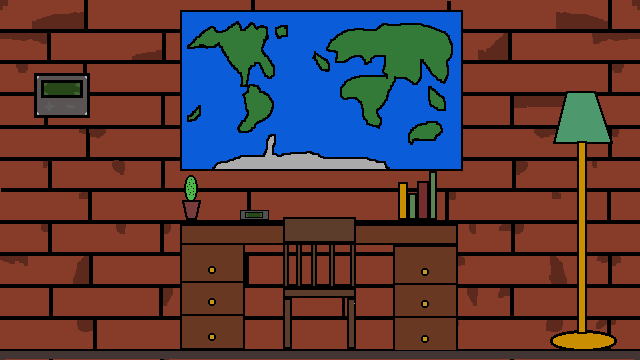
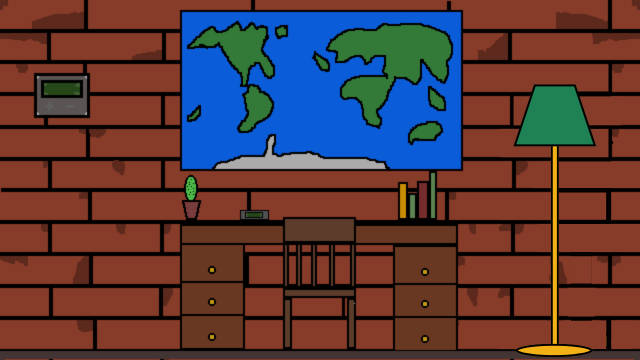
lightbulb logic works! :boom: also added a bunch more assets

diff --git a/client/src/components/GameScreen/Screen.tsx b/client/src/components/GameScreen/Screen.tsx
@@ -123,6 +123,17 @@ export default function GameScreen(props: {
     setScreenIndex(6);
   };
 
+  const handleInstallLight = () => {
+    if (props.selectedItem === "lightbulb") {
+      props.toggleWorldFlag("lightbulbInstalled");
+      props.removeItem("lightbulb");
+    }
+  };
+
+  const handleLightSwitch = () => {
+    props.toggleWorldFlag("lampOn");
+  };
+
   const handleSheetMusicClick = () => {
     setPreviousScreenIndex(screenIndex);
     setScreenIndex(7);
@@ -335,9 +346,17 @@ export default function GameScreen(props: {
           )}
         </div>
       );
-    case 3: // desk overwold screen
+    case 3: // desk screen
+      let currentBg = "screen-four-bg-one";
+      if (checkWorldFlag("lightbulbInstalled")) {
+        if (checkWorldFlag("lampOn")) {
+          currentBg = "screen-four-bg-light-on";
+        } else {
+          currentBg = "screen-four-bg-light-off";
+        }
+      }
       return (
-        <div className={`background-container screen-four-bg-one`}>
+        <div className={`background-container ${currentBg}`}>
           <button className="goRight" onClick={() => handleGoRight()}>
             <img src={arrow} className="arrow-right" alt="right-arrow" />
           </button>
@@ -345,10 +364,25 @@ export default function GameScreen(props: {
           <button className="goLeft" onClick={() => handleGoLeft()}>
             <img src={arrow} className="arrow-left" alt="left-arrow" />
           </button>
+
           <button
             className="thermostatDeskButton"
             onClick={() => handleThermostatClick()}
           ></button>
+
+          {(!checkWorldFlag("lightbulbInstalled") && (
+            <button
+              className="lamp"
+              onClick={() => handleInstallLight()}
+            ></button>
+          )) ||
+            (checkWorldFlag("lightbulbInstalled") && (
+              <button
+                className="lamp-on-off"
+                onClick={() => handleLightSwitch()}
+              ></button>
+            ))}
+
           <button className="desk" onClick={() => handleGoDesk()}></button>
         </div>
       );

diff --git a/client/src/components/GameScreen/Screen.css b/client/src/components/GameScreen/Screen.css
@@ -134,6 +134,20 @@
     height: 39%;
   }
 
+  .lamp {
+    top: 24%;
+    left: 80.5%;
+    width: 12%;
+    height: 25%;
+  }
+
+  .lamp-on-off {
+    top: 24%;
+    left: 80.5%;
+    width: 12%;
+    height: 25%;
+  }
+
   .book {
     top: 10%;
     left: 20%;
@@ -274,12 +288,7 @@
   }
 
   .exitSafe {
-    /* top: 76%;
-    left: 45%;
-    width: 10%;
-    height: 10%; */
     z-index: 10;
-    /* background-color: orange; */
   }
 
   .screw-panel {
@@ -368,7 +377,6 @@
     left: 10%;
     background-color: purple;
   }
-
   .safeHandle {
     top: 50%;
     left: 50%;
@@ -397,6 +405,14 @@
 
 .screen-four-bg-one {
   background-image: url("../../assets/Screen4/bg1.png");
+}
+
+.screen-four-bg-light-off {
+  background-image: url("../../assets/Screen4/lightbulb-off.png");
+}
+
+.screen-four-bg-light-on {
+  background-image: url("../../assets/Screen4/lightbulb-on.png");
 }
 
 .screen-thermostat-bg {
